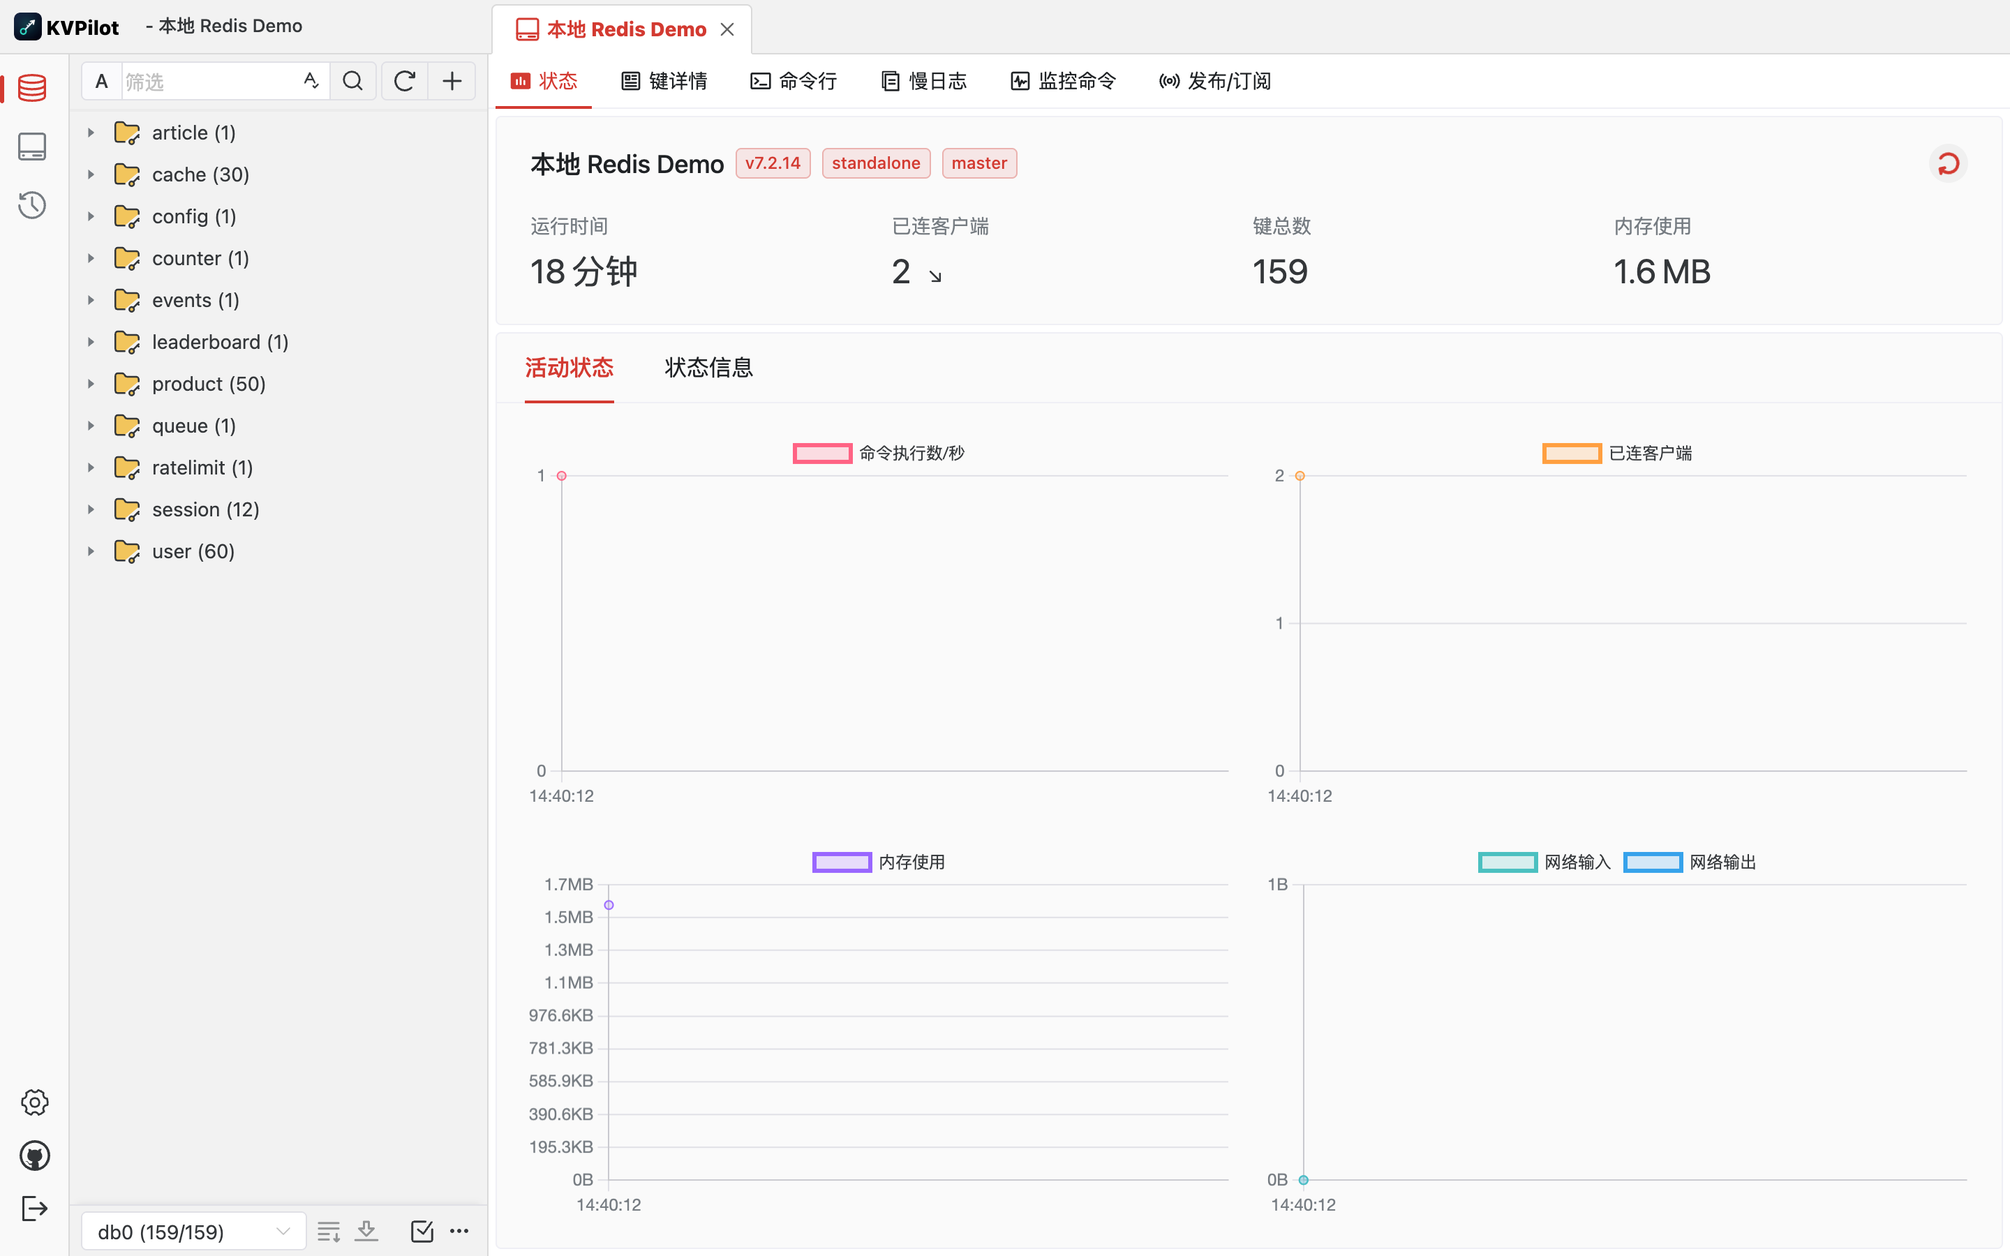
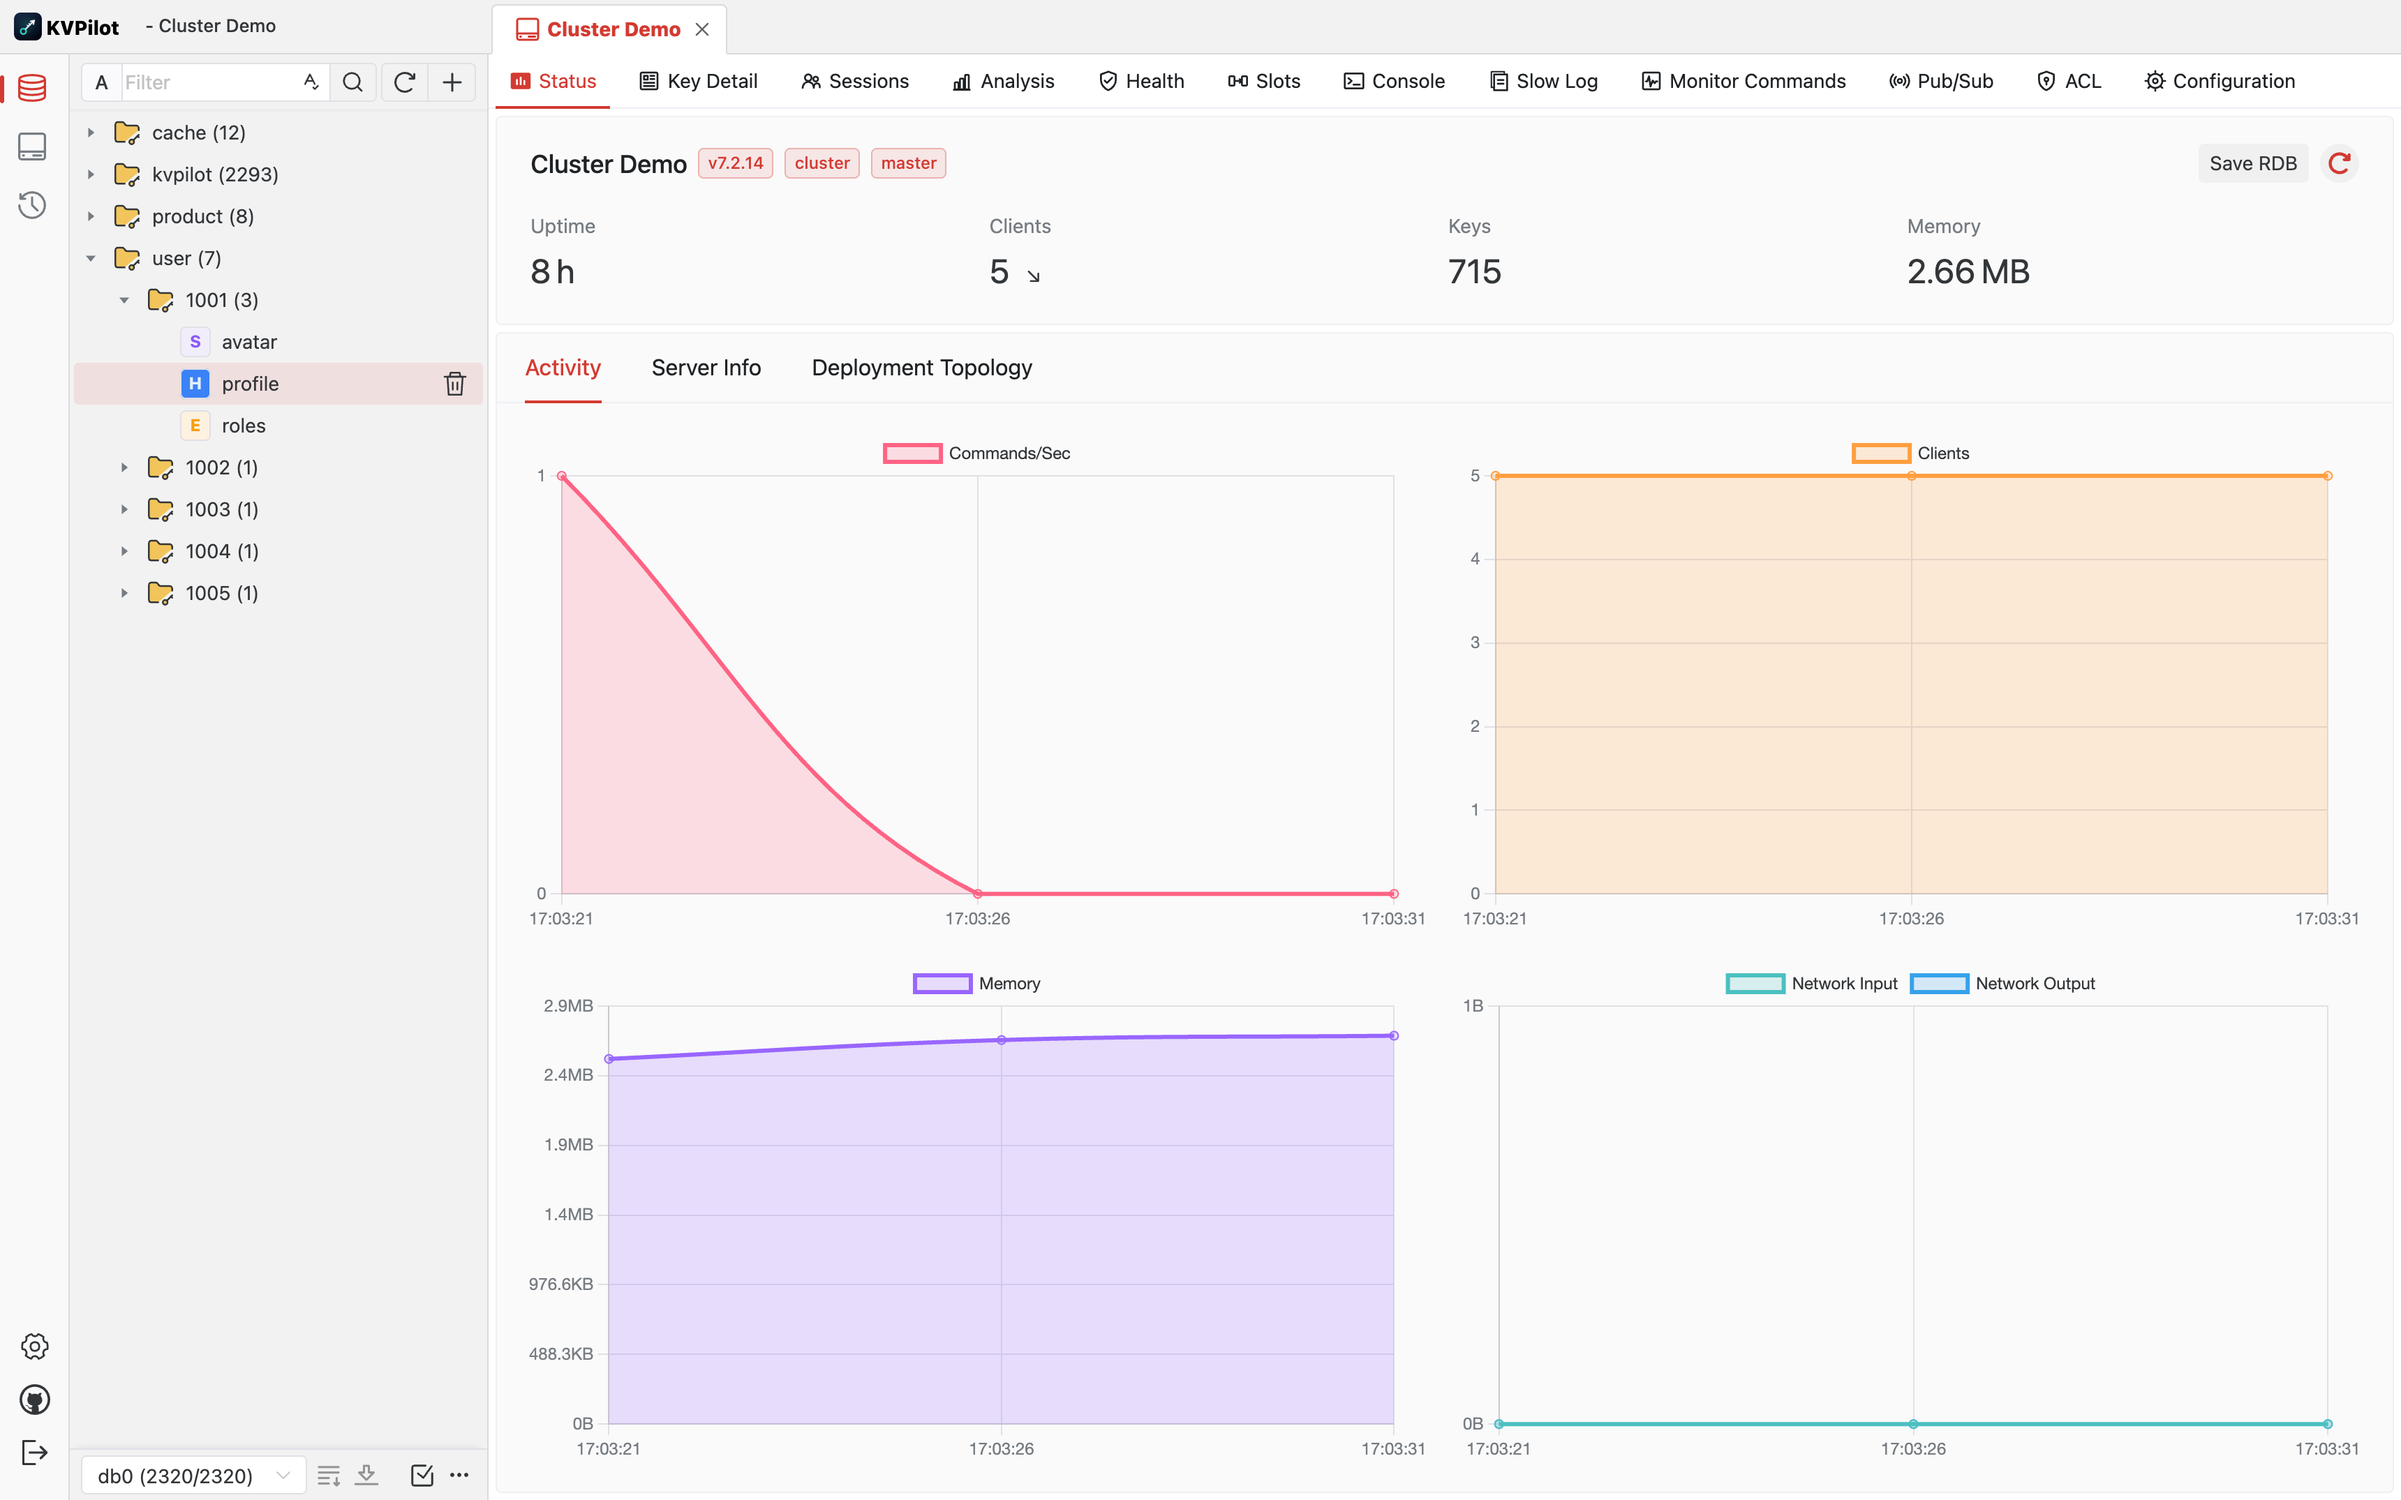
docs: refresh README and screenshots for 1.3.0

diff --git a/README.md b/README.md
@@ -6,6 +6,7 @@
 <h4 align="center"><strong>English</strong> | <a href="https://github.com/zhizuqiu/kvpilot/blob/main/README_zh.md">简体中文</a></h4>
 
 > **KVPilot** is an unofficial community continuation of **Tiny RDM** 1.2.7 (GPL-3.0).
+> Current release: **1.3.0**.
 > Not affiliated with, endorsed by, or sponsored by Tiny Craft.
 
 <div align="center">
@@ -21,11 +22,11 @@ also provides a web version that can be deployed via Docker.</strong>
 </div>
 
 <div align="center">
-<img alt="KVPilot 仪表盘" src="docs/assets/03-browser.png" />
+<img alt="KVPilot status dashboard" src="docs/assets/03-browser.png" />
 
-<img alt="KVPilot 键详情" src="docs/assets/02-key-detail.png" />
+<img alt="KVPilot key detail" src="docs/assets/02-key-detail.png" />
 
-<img alt="KVPilot 偏好设置" src="docs/assets/04-preferences.png" />
+<img alt="KVPilot slot management" src="docs/assets/05-slot-management.png" />
 </div>
 
 ## Feature
@@ -35,7 +36,7 @@ also provides a web version that can be deployed via Docker.</strong>
 * Provides visually and user-friendly UI, light and dark themes (Thanks
   to [Naive UI](https://github.com/tusen-ai/naive-ui)
   and [IconPark](https://iconpark.oceanengine.com)).
-* Multi-language support ([Need more languages ? Click here to contribute](.github/CONTRIBUTING.md)).
+* Multi-language support: English, 简体中文, 繁體中文, 日本語, 한국어, Français, Español, Português, Русский, Türkçe ([Need more languages ? Click here to contribute](.github/CONTRIBUTING.md)).
 * Better connection management: supports SSH Tunnel/SSL/Sentinel Mode/Cluster Mode/HTTP proxy/SOCKS5 proxy.
 * Visualize key value operations, CRUD support for Lists, Hashes, Strings, Sets, Sorted Sets, and Streams.
 * Support multiple data viewing format and decode/decompression methods.
@@ -47,13 +48,29 @@ also provides a web version that can be deployed via Docker.</strong>
 * Provide value decode/decompression for List/Hash/Set/Sorted Set.
 * Integrate with Monaco Editor
 * Support real-time commands monitoring.
-* Visual ACL management with permission dry-run and denial logs.
-* Deployment topology for standalone, master-replica, sentinel and cluster.
 * Support import/export data.
 * Support publish/subscribe.
 * Support import/export connection profile.
 * Custom data encoder and decoder for value
   display ([Here are the instructions](https://github.com/zhizuqiu/kvpilot/blob/main/docs/custom-decoder.md)).
+* Deployment topology for standalone, master-replica, sentinel and cluster.
+* Visual ACL management with permission dry-run and denial logs.
+* Visual configuration management: view and edit Redis parameters, with per-node comparison for clusters.
+* Session management with protection for master/replica/pub-sub connections.
+* Big key scan and keyspace statistics (types, TTL, prefixes) with CSV export.
+* Read-only cluster health checks with severity, reasons and suggestions.
+* Maintenance actions: per-master BGSAVE with progress, SLOWLOG reset.
+* Cluster slot management: per-slot key distribution map, batch migration with range paste and multi-select, and rebalancing by slot count or key count.
+
+## Cluster Operations
+
+KVPilot includes read-only cluster inspection and controlled slot operations for Redis Cluster:
+
+* **Slot distribution**: one block per master, colored by key count, with log/linear scales and hover details.
+* **Batch migration**: click a slot on the map, choose a target master, then add it to the batch list. The slot field also accepts comma-separated numbers or ranges copied from the slot range column (`0-6, 8, 10-12`).
+* **Multi-select**: hold ⌘ Command on macOS or Alt on other platforms and drag on the map to select a rectangle of slots.
+* **Rebalance**: generate a plan by slot count or key count with an adjustable tolerance, then run it with pause/resume/cancel.
+* **Safety**: slot operations run against masters only; completed slots are never rolled back; cancellation takes effect between slots; nodes that fail to respond during a scan are reported and excluded from the map.
 
 ## Installation
 
@@ -76,7 +93,7 @@ Prefer the browser? See [Docker Deployment](#docker-deployment) for the web vers
 
 ### Prerequisites
 
-* Go (latest version)
+* Go >= 1.25
 * Node.js >= 20
 * NPM >= 9
 
@@ -111,6 +128,25 @@ npm install
 wails dev
 ```
 
+### Tests and Local Web Development
+
+Run the test suites:
+
+```bash
+go test ./...
+cd frontend && npm run test
+```
+
+For local web development, run the API server and the Vite dev server separately:
+
+```bash
+# terminal 1: backend on :8088
+go build -tags web -o /tmp/kvpilot-web . && PORT=8088 /tmp/kvpilot-web
+
+# terminal 2: frontend dev server, proxying /api and /ws to :8088
+cd frontend && VITE_WEB=true npm run dev
+```
+
 ## Docker Deployment
 
 Images are published to Docker Hub as [`zhizuqiu/kvpilot`](https://hub.docker.com/r/zhizuqiu/kvpilot)
@@ -132,6 +168,7 @@ services:
     environment:
       - ADMIN_USERNAME=admin
       - ADMIN_PASSWORD=change-me
+      - SESSION_TTL=24h
     volumes:
       - ./data:/app/tinyrdm
 ```
@@ -143,6 +180,9 @@ docker compose up -d
 ```
 
 Once started, visit `http://localhost:8086` and log in with the credentials configured above.
+The frontend uses `./` relative asset/API/WebSocket paths by default, so it can be served at the root
+or under a sub-path such as `/kvpilot/`. Override the build base path with
+`--build-arg VITE_BASE_PATH=...` when building the image.
 
 ### Using Docker Command
 
@@ -157,10 +197,16 @@ docker run -d --name kvpilot \
 
 ### Environment Variables
 
-| Variable         | Description    | Default |
-|------------------|----------------|---------|
-| `ADMIN_USERNAME` | Login username | -       |
-| `ADMIN_PASSWORD` | Login password | -       |
+| Variable            | Description                                                                                  | Default |
+|---------------------|----------------------------------------------------------------------------------------------|---------|
+| `ADMIN_USERNAME`    | Login username                                                                               | -       |
+| `ADMIN_PASSWORD`    | Login password                                                                               | -       |
+| `SESSION_TTL`       | Login session lifetime, in Go duration format (for example `24h`)                            | `24h`   |
+| `PORT`              | Backend listen port inside the container; nginx exposes `8086`                               | `8088`  |
+
+Connections and preferences are stored under `/app/tinyrdm`. Keep that volume before upgrading or
+recreating the container. Web mode uses a single administrator account; put it behind HTTPS when
+exposed to a network.
 
 ## About
 
@@ -168,7 +214,8 @@ KVPilot is a community continuation of [Tiny RDM](https://github.com/tiny-craft/
 aimed at users who still rely on the open-source desktop client and need to keep up with
 new Redis / KV compatible implementations.
 
-- Scope: bug fixes, dependency and security updates, Redis protocol/command compatibility, hardening of the web mode
+- Scope: bug fixes, dependency and security updates, Redis protocol/command compatibility, cluster slot operations, and hardening of the web mode
+- Current release: 1.3.0 (based on Tiny RDM 1.2.7)
 - Non-goals: major UI redesigns, chasing features of the closed-source successor (Redisee)
 - Maintenance: issue/PR driven, see [Contributing](#contributing)
 - License: GPL-3.0; unofficial derivative work, not affiliated with Tiny Craft

diff --git a/README_zh.md b/README_zh.md
@@ -6,6 +6,7 @@
 <h4 align="center"><a href="https://github.com/zhizuqiu/kvpilot/blob/main/README.md">English</a> | <strong>简体中文</strong></h4>
 
 > **KVPilot** 是 **Tiny RDM** 1.2.7 的非官方社区延续分支（GPL-3.0）。
+> 当前版本：**1.3.0**。
 > 与 Tiny Craft 无隶属、背书或赞助关系。
 
 <div align="center">
@@ -24,7 +25,7 @@
 
 <img alt="KVPilot 键详情" src="docs/assets/02-key-detail.png" />
 
-<img alt="KVPilot 偏好设置" src="docs/assets/04-preferences.png" />
+<img alt="KVPilot 槽位管理" src="docs/assets/05-slot-management.png" />
 </div>
 
 ## 功能特性
@@ -32,7 +33,7 @@
 * 极度轻量，基于Webview2，无内嵌浏览器（感谢[Wails](https://github.com/wailsapp/wails)）
 * 界面精美易用，提供浅色/深色主题（感谢[Naive UI](https://github.com/tusen-ai/naive-ui)
   和 [IconPark](https://iconpark.oceanengine.com)）
-* 多国语言支持：英文/中文（[需要更多语言支持？点我贡献语言](.github/CONTRIBUTING_zh.md)）
+* 多国语言支持：英文/简中/繁中/日/韩/法/西/葡/俄/土（[需要更多语言支持？点我贡献语言](.github/CONTRIBUTING_zh.md)）
 * 更好用的连接管理：支持SSH隧道/SSL/哨兵模式/集群模式/HTTP代理/SOCKS5代理
 * 可视化键值操作，增删查改一应俱全
 * 支持多种数据查看格式以及转码/解压方式
@@ -44,12 +45,28 @@
 * List/Hash/Set/Sorted Set值的转码显示
 * 内置高级编辑器Monaco Editor
 * 支持命令实时监控
-* 可视化 ACL 管理，支持权限试算与拒绝日志
-* 部署拓扑视图，支持单机/主从/哨兵/集群
 * 支持导入/导出数据
 * 支持发布订阅
 * 支持导入/导出连接配置
 * 自定义数据展示编码/解码([这是操作指引](https://github.com/zhizuqiu/kvpilot/blob/main/docs/custom-decoder.md))
+* 部署拓扑视图，支持单机/主从/哨兵/集群
+* 可视化 ACL 管理，支持权限试算与拒绝日志
+* 可视化配置管理：查看和编辑 Redis 参数，集群支持逐节点对比
+* 会话管理，保护主从/订阅连接不被误杀
+* 大 key 扫描与键空间统计（类型/TTL/前缀），支持 CSV 导出
+* 只读集群巡检：按严重级别给出原因与建议
+* 维护操作：按主节点 BGSAVE（带进度）、SLOWLOG 重置
+* 集群槽位管理：逐槽键数量分布图、区间粘贴与框选批量迁移、按槽位数/键数量的均衡迁移
+
+## 集群运维
+
+KVPilot 提供只读集群巡检和可控的槽位操作：
+
+* **槽位分布**：每个主节点一块，按键数量着色，支持对数/线性色阶和悬停详情
+* **批量迁移**：在分布图点击槽位并选择目标主节点，加入批量列表；槽位号支持逗号分隔和区间，可直接粘贴槽位范围列的文本（如 `0-6, 8, 10-12`）
+* **框选**：macOS 按住 ⌘ Command，其他平台按住 Alt 拖动，可矩形框选多个槽位
+* **均衡迁移**：按槽位数或键数量生成计划，可调容差，支持暂停/继续/取消
+* **安全说明**：槽位操作只针对主节点；已完成的槽位不回滚；取消在槽位之间生效；扫描时无响应的节点会被标记并从图中排除
 
 ## 安装
 
@@ -69,7 +86,7 @@
 
 ### 运行环境要求
 
-* Go（最新版本）
+* Go >= 1.25
 * Node.js >= 20
 * NPM >= 9
 
@@ -104,6 +121,25 @@ npm install
 wails dev
 ```
 
+### 测试与本地 Web 开发
+
+运行测试：
+
+```bash
+go test ./...
+cd frontend && npm run test
+```
+
+本地 Web 模式分别启动后端和前端开发服务器：
+
+```bash
+# 终端 1：后端监听 :8088
+go build -tags web -o /tmp/kvpilot-web . && PORT=8088 /tmp/kvpilot-web
+
+# 终端 2：前端开发服务器，把 /api 和 /ws 代理到 :8088
+cd frontend && VITE_WEB=true npm run dev
+```
+
 ## Docker 部署
 
 镜像发布在 Docker Hub：[`zhizuqiu/kvpilot`](https://hub.docker.com/r/zhizuqiu/kvpilot)，
@@ -124,6 +160,7 @@ services:
     environment:
       - ADMIN_USERNAME=admin
       - ADMIN_PASSWORD=change-me
+      - SESSION_TTL=24h
     volumes:
       - ./data:/app/tinyrdm
 ```
@@ -135,6 +172,8 @@ docker compose up -d
 ```
 
 启动后访问 `http://localhost:8086`，使用上面配置的用户名密码登录。
+Web 前端默认使用 `./` 相对资源/API/WebSocket 地址，可直接部署在根路径或 `/kvpilot/` 子路径。
+需要覆盖构建基路径时，可在构建镜像时传入 `--build-arg VITE_BASE_PATH=...`。
 
 ### 使用 Docker 命令
 
@@ -153,13 +192,19 @@ docker run -d --name kvpilot \
 |------------------|-------|-----|
 | `ADMIN_USERNAME` | 登录用户名 | -   |
 | `ADMIN_PASSWORD` | 登录密码  | -   |
+| `SESSION_TTL` | 登录会话有效期，Go duration 格式（例如 `24h`） | `24h` |
+| `PORT` | 容器内后端监听端口，对外仍由 nginx 暴露 `8086` | `8088` |
+
+连接配置和偏好设置保存在 `/app/tinyrdm`，升级或重建容器前请保留该目录。Web 模式使用
+单管理员账号，暴露到网络时建议放在 HTTPS 反向代理之后。
 
 ## 关于
 
 KVPilot 是 [Tiny RDM](https://github.com/tiny-craft/tiny-rdm) 1.2.7 的社区延续分支，
 面向仍在使用开源桌面客户端、且需要跟进新 Redis / KV 兼容实现的用户。
 
-- 项目范围：缺陷修复、依赖安全升级、Redis 协议与命令兼容、Web 模式加固
+- 项目范围：缺陷修复、依赖安全升级、Redis 协议与命令兼容、集群槽位运维、Web 模式加固
+- 当前版本：1.3.0（基于 Tiny RDM 1.2.7）
 - 非目标：不做界面大改、不追上游闭源版本（Redisee）的功能
 - 维护方式：Issue / PR 驱动，见 [参与贡献](#参与贡献)
 - 许可证：GPL-3.0，非官方衍生版本，与 Tiny Craft 无隶属关系
